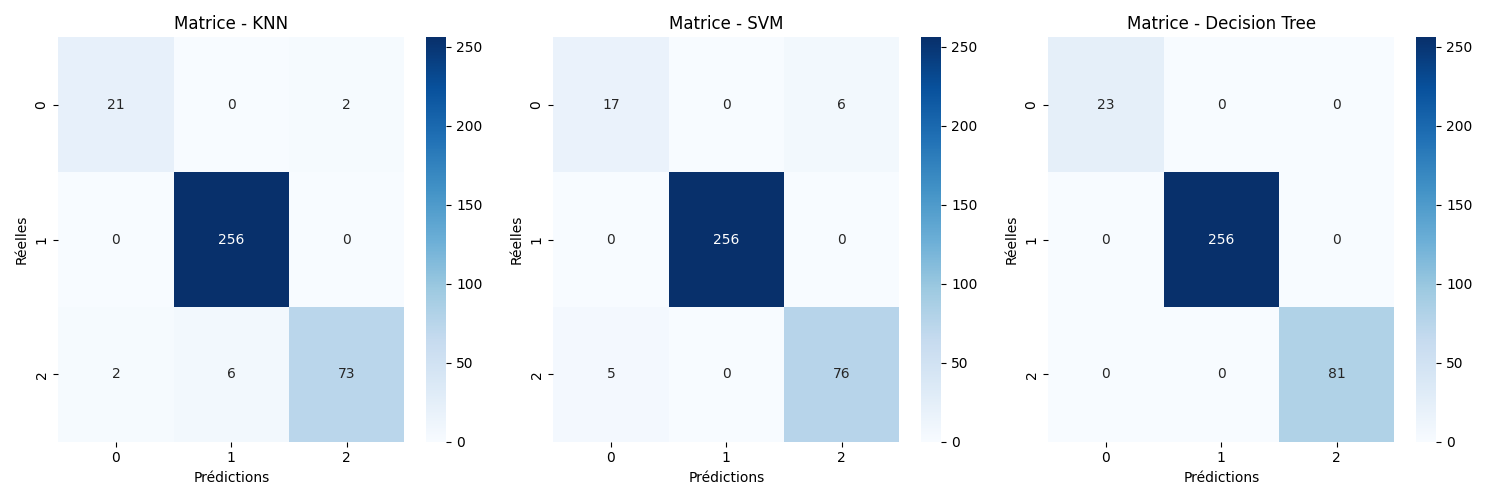
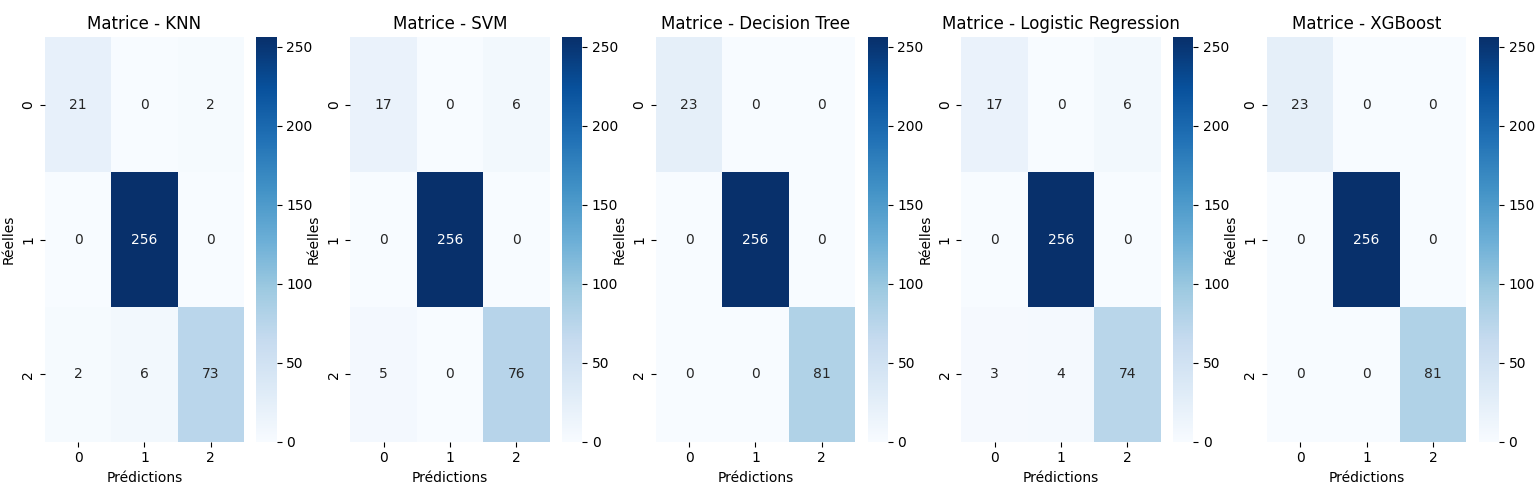
sum

diff --git a/classification-activite-utilisateurs.py b/classification-activite-utilisateurs.py
@@ -9,8 +9,11 @@ from sklearn.preprocessing import StandardScaler  # Standardisation des données
 from sklearn.neighbors import KNeighborsClassifier  # Modèle K-Nearest Neighbors
 from sklearn.svm import SVC  # Support Vector Machine pour la classification
 from sklearn.tree import DecisionTreeClassifier  # Arbre de décision pour la classification
-from sklearn.metrics import accuracy_score, classification_report, confusion_matrix  # Évaluation des modèles
+from sklearn.linear_model import LinearRegression, LogisticRegression  # Régression linéaire et logistique
+from sklearn.metrics import accuracy_score, classification_report, confusion_matrix, mean_squared_error, r2_score  # Évaluation des modèles
+import xgboost as xgb  # XGBoost pour classification et régression
 import os
+
 def convertir_duree_en_mois(duree_str):
     """Convertit une durée de formation exprimée en texte en un nombre moyen de mois."""
     if pd.isna(duree_str):  # Vérifie si la valeur est NaN (valeur manquante)
@@ -71,33 +74,107 @@ def categoriser_utilisateurs(df, seuil_actif=7, seuil_moderement_actif=30):
 
 def entrainer_modeles(X_train, y_train):
     """Entraîne plusieurs modèles de classification et les retourne."""
+    # Convertir les étiquettes textuelles en valeurs numériques pour certains modèles
+    from sklearn.preprocessing import LabelEncoder
+    le = LabelEncoder()
+    y_train_encoded = le.fit_transform(y_train)
+    
     modeles = {
         'KNN': KNeighborsClassifier(n_neighbors=3),  # Algorithme des k plus proches voisins
         'SVM': SVC(kernel='linear'),  # Support Vector Machine avec un noyau linéaire
-        'Decision Tree': DecisionTreeClassifier()  # Arbre de décision
+        'Decision Tree': DecisionTreeClassifier(),  # Arbre de décision
+        'Logistic Regression': LogisticRegression(max_iter=1000),  # Régression logistique 
+        'XGBoost': xgb.XGBClassifier(objective='multi:softmax', num_class=len(set(y_train)))  # XGBoost pour classification
     }
     
     # Entraînement de chaque modèle sur les données d'entraînement
     for nom, modele in modeles.items():
-        modele.fit(X_train, y_train)
+        if nom == 'XGBoost':
+            modele.fit(X_train, y_train_encoded)
+        else:
+            modele.fit(X_train, y_train)
     
-    return modeles  # Retourne les modèles entraînés
+    # Pour la régression linéaire, on va prédire un score numérique (par exemple le score)
+    # puis utiliser un seuil pour classer
+    return modeles, le  # Retourne les modèles entraînés et l'encodeur
 
-import os
+def evaluer_regression_lineaire(X_train, X_test, y_train, y_test):
+    """Évalue les performances de la régression linéaire et affiche les résultats."""
+    # Encodage des catégories en valeurs numériques
+    from sklearn.preprocessing import LabelEncoder
+    le = LabelEncoder()
+    y_train_encoded = le.fit_transform(y_train)
+    y_test_encoded = le.transform(y_test)
+    
+    # Modèle de régression linéaire simple (une seule variable explicative)
+    regressor_simple = LinearRegression()
+    regressor_simple.fit(X_train[:, 0:1], y_train_encoded)  # On utilise seulement la première feature
+    
+    # Modèle de régression linéaire multiple (toutes les variables explicatives)
+    regressor_multiple = LinearRegression()
+    regressor_multiple.fit(X_train, y_train_encoded)
+    
+    # Prédictions
+    y_pred_simple = regressor_simple.predict(X_test[:, 0:1])
+    y_pred_multiple = regressor_multiple.predict(X_test)
+    
+    # Arrondir les prédictions pour les transformer en classes
+    y_pred_simple_class = np.round(y_pred_simple).astype(int)
+    y_pred_multiple_class = np.round(y_pred_multiple).astype(int)
+    
+    # Corriger les valeurs hors limites
+    y_pred_simple_class = np.clip(y_pred_simple_class, 0, len(le.classes_) - 1)
+    y_pred_multiple_class = np.clip(y_pred_multiple_class, 0, len(le.classes_) - 1)
+    
+    # Calcul des métriques pour la régression
+    mse_simple = mean_squared_error(y_test_encoded, y_pred_simple)
+    r2_simple = r2_score(y_test_encoded, y_pred_simple)
+    
+    mse_multiple = mean_squared_error(y_test_encoded, y_pred_multiple)
+    r2_multiple = r2_score(y_test_encoded, y_pred_multiple)
+    
+    # Calcul de l'accuracy pour la classification
+    accuracy_simple = accuracy_score(y_test_encoded, y_pred_simple_class)
+    accuracy_multiple = accuracy_score(y_test_encoded, y_pred_multiple_class)
+    
+    print("\nRésultats de la Régression Linéaire:")
+    print(f"Régression Simple - MSE: {mse_simple:.4f}, R²: {r2_simple:.4f}, Accuracy: {accuracy_simple:.2%}")
+    print(f"Régression Multiple - MSE: {mse_multiple:.4f}, R²: {r2_multiple:.4f}, Accuracy: {accuracy_multiple:.2%}")
+    
+    # Conversion des prédictions numériques en étiquettes d'origine
+    y_pred_simple_labels = le.inverse_transform(y_pred_simple_class)
+    y_pred_multiple_labels = le.inverse_transform(y_pred_multiple_class)
+    
+    # Création des matrices de confusion
+    fig, axes = plt.subplots(1, 2, figsize=(15, 5))
+    
+    sns.heatmap(confusion_matrix(y_test, y_pred_simple_labels), annot=True, fmt='d', cmap='Blues', ax=axes[0])
+    axes[0].set_title('Matrice - Régression Linéaire Simple')
+    axes[0].set_xlabel('Prédictions')
+    axes[0].set_ylabel('Réelles')
+    
+    sns.heatmap(confusion_matrix(y_test, y_pred_multiple_labels), annot=True, fmt='d', cmap='Blues', ax=axes[1])
+    axes[1].set_title('Matrice - Régression Linéaire Multiple')
+    axes[1].set_xlabel('Prédictions')
+    axes[1].set_ylabel('Réelles')
+    
+    plt.tight_layout()
+    plt.show()
+    
+    # Enregistrement de la figure
+    regression_matrix_path = "figures/matrices_regression.png"
+    fig.savefig(regression_matrix_path)
+    print(f"✅ Matrices de confusion pour régression enregistrées sous '{regression_matrix_path}'")
+    
+    return {
+        'Régression Linéaire Simple': accuracy_simple,
+        'Régression Linéaire Multiple': accuracy_multiple
+    }
 
-def evaluer_modeles(modeles, X_test, y_test):
+def evaluer_modeles(modeles, X_test, y_test, label_encoder):
     """
     Évalue les performances de plusieurs modèles de classification sur des données de test.
-
-    Paramètres :
-    - modeles (dict) : Un dictionnaire contenant les modèles sous la forme {nom: modèle}
-    - X_test (array) : Les données de test (features)
-    - y_test (array) : Les étiquettes réelles des données de test
-
-    Retourne :
-    - resultats (dict) : Un dictionnaire contenant les scores d'exactitude (accuracy) de chaque modèle
     """
-    
     resultats = {}  # Dictionnaire pour stocker les scores d'accuracy de chaque modèle
     accuracy_scores = {}  # Dictionnaire pour stocker les scores pour la visualisation
 
@@ -105,12 +182,16 @@ def evaluer_modeles(modeles, X_test, y_test):
     os.makedirs("figures", exist_ok=True)
 
     # Création d'une figure contenant plusieurs sous-graphiques pour afficher les matrices de confusion
-    fig, axes = plt.subplots(1, len(modeles), figsize=(15, 5))  
+    fig, axes = plt.subplots(1, len(modeles), figsize=(20, 5))  
 
     # Boucle sur chaque modèle pour évaluer ses performances
     for i, (nom, modele) in enumerate(modeles.items()):
         # Prédiction des étiquettes sur les données de test
-        y_pred = modele.predict(X_test)
+        if nom == 'XGBoost':
+            y_pred_encoded = modele.predict(X_test)
+            y_pred = label_encoder.inverse_transform(y_pred_encoded.astype(int))
+        else:
+            y_pred = modele.predict(X_test)
         
         # Calcul de l'exactitude du modèle
         accuracy = accuracy_score(y_test, y_pred)
@@ -133,30 +214,71 @@ def evaluer_modeles(modeles, X_test, y_test):
     plt.tight_layout()
 
     # Affichage des matrices de confusion
-    plt.show(block=True)
+    plt.show()
 
     # Enregistrement de la figure contenant les matrices de confusion
     confusion_matrix_path = "figures/matrices_confusion.png"
     fig.savefig(confusion_matrix_path)
     print(f"✅ Matrices de confusion enregistrées sous '{confusion_matrix_path}'")
 
+    return resultats  # Retourne les scores des modèles
+
+def comparer_tous_les_modeles(resultats_classification, resultats_regression):
+    """Compare tous les modèles de classification et de régression."""
+    # Fusion des résultats
+    tous_resultats = {**resultats_classification, **resultats_regression}
+    
     # Génération du graphique de comparaison des scores des modèles
-    plt.figure(figsize=(8, 5))
-    sns.barplot(x=list(accuracy_scores.keys()), y=list(accuracy_scores.values()), palette='viridis')
-    plt.title('Comparaison des performances des modèles')  # Titre du graphique
+    plt.figure(figsize=(12, 6))
+    
+    # Définition des couleurs pour différencier les types de modèles
+    colors = []
+    models = list(tous_resultats.keys())
+    for model in models:
+        if model in ['KNN', 'SVM', 'Decision Tree']:
+            colors.append('royalblue')  # Méthodes classiques
+        elif model == 'XGBoost':
+            colors.append('orangered')  # XGBoost
+        else:
+            colors.append('forestgreen')  # Régressions
+    
+    # Création du graphique à barres
+    bars = plt.bar(models, list(tous_resultats.values()), color=colors)
+    
+    # Ajout d'une légende
+    import matplotlib.patches as mpatches
+    classic = mpatches.Patch(color='royalblue', label='Méthodes classiques')
+    xgb = mpatches.Patch(color='orangered', label='XGBoost')
+    reg = mpatches.Patch(color='forestgreen', label='Régression')
+    plt.legend(handles=[classic, xgb, reg])
+    
+    plt.title('Comparaison des performances de tous les modèles')  # Titre du graphique
     plt.xlabel('Modèles')  # Nom de l'axe des abscisses
     plt.ylabel('Précision (Accuracy)')  # Nom de l'axe des ordonnées
     plt.ylim(0, 1)  # Définition de l'échelle de l'axe des ordonnées entre 0 et 1
-
+    plt.xticks(rotation=45)  # Rotation des étiquettes sur l'axe des x pour une meilleure lisibilité
+    
+    # Ajout des valeurs sur les barres
+    for bar in bars:
+        height = bar.get_height()
+        plt.text(bar.get_x() + bar.get_width()/2., height,
+                f'{height:.2%}',
+                ha='center', va='bottom', rotation=0)
+    
+    # Ajout d'une ligne horizontale à la valeur maximale pour référence
+    max_accuracy = max(tous_resultats.values())
+    plt.axhline(y=max_accuracy, color='red', linestyle='--', alpha=0.7)
+    plt.text(0, max_accuracy + 0.02, f'Max: {max_accuracy:.2%}', color='red')
+    
+    plt.tight_layout()
+    
     # Affichage du graphique de comparaison
-    plt.show(block=True)
+    plt.show()
 
     # Enregistrement du graphique de comparaison des performances
-    performance_graph_path = "figures/comparaison_performances.png"
+    performance_graph_path = "figures/comparaison_tous_modeles.png"
     plt.savefig(performance_graph_path)
-    print(f"✅ Comparaison des performances enregistrée sous '{performance_graph_path}'")
-
-    return resultats  # Retourne les scores des modèles
+    print(f"✅ Comparaison de tous les modèles enregistrée sous '{performance_graph_path}'")
 
 def main(data_path):
     """Fonction principale qui charge les données, effectue le prétraitement, entraîne et évalue les modèles."""
@@ -188,15 +310,33 @@ def main(data_path):
         
         # Standardisation des données pour améliorer la performance des modèles
         scaler = StandardScaler()
-        X_train = scaler.fit_transform(X_train)
-        X_test = scaler.transform(X_test)
+        X_train_scaled = scaler.fit_transform(X_train)
+        X_test_scaled = scaler.transform(X_test)
         
-        modeles = entrainer_modeles(X_train, y_train)  # Entraînement des modèles
-        resultats = evaluer_modeles(modeles, X_test, y_test)  # Évaluation des modèles
+        # Entraînement des modèles de classification
+        modeles, label_encoder = entrainer_modeles(X_train_scaled, y_train)
+        resultats_classification = evaluer_modeles(modeles, X_test_scaled, y_test, label_encoder)
         
-        print("\nPerformances des modèles:")
-        for nom, score in resultats.items():
+        # Évaluation des modèles de régression linéaire
+        resultats_regression = evaluer_regression_lineaire(X_train_scaled, X_test_scaled, y_train, y_test)
+        
+        # Comparaison de tous les modèles
+        comparer_tous_les_modeles(resultats_classification, resultats_regression)
+        
+        print("\nPerformances des modèles de classification:")
+        for nom, score in resultats_classification.items():
             print(f"{nom}: {score:.2%}")  # Affichage des scores en pourcentage
+        
+        print("\nPerformances des modèles de régression:")
+        for nom, score in resultats_regression.items():
+            print(f"{nom}: {score:.2%}")  # Affichage des scores en pourcentage
+        
+        # Détermination du meilleur modèle
+        tous_resultats = {**resultats_classification, **resultats_regression}
+        meilleur_modele = max(tous_resultats, key=tous_resultats.get)
+        meilleur_score = tous_resultats[meilleur_modele]
+        
+        print(f"\n🏆 Le meilleur modèle est '{meilleur_modele}' avec une précision de {meilleur_score:.2%}")
         
     except Exception as e:
         print(f"❌ Erreur lors de l'exécution : {e}")
